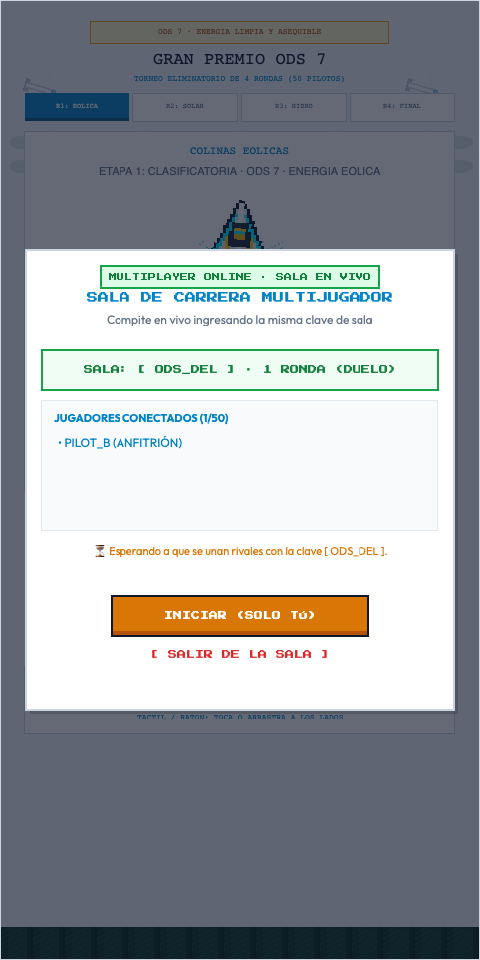
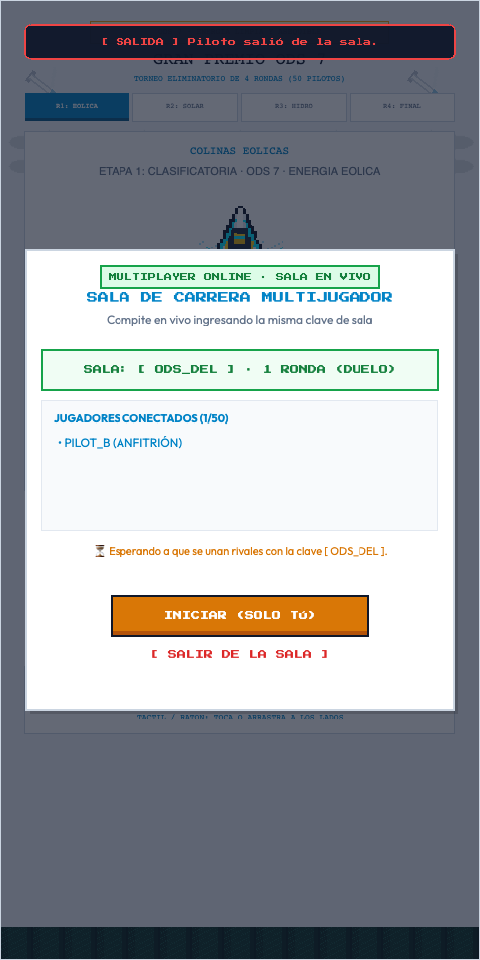
fix(gameplay): prevent background tab invulnerability exploit with speed penalty and finish guard

Changed region(s): [[0.0312, 0.0, 0.9688, 0.0625], [0.4375, 0.2188, 0.5312, 0.2812]]

diff --git a/src/scenes/MainScene.ts b/src/scenes/MainScene.ts
@@ -616,6 +616,10 @@ export class MainScene extends Scene {
         if (typeof document === 'undefined') return;
         if (document.hidden) {
             this.lastHiddenTime = performance.now();
+            // Drop speed to penalty crawl immediately so hidden tabs cannot exploit invulnerability
+            if (this.glider) {
+                this.glider.speed = 20;
+            }
             this.startBackgroundSimulation();
         } else {
             this.stopBackgroundSimulation();
@@ -671,9 +675,14 @@ export class MainScene extends Scene {
 
         if (deltaSec <= 0 || deltaSec > 2) return;
 
-        const currentSpeed = this.glider ? this.glider.speed : 45;
-        const meters = (currentSpeed / 3.6) * deltaSec * 1.8;
-        this.distanceTraveled += meters;
+        // Inactivity penalty speed (20 km/h) prevents tab-switch invulnerability exploit
+        const penaltySpeed = 20;
+        if (this.glider) {
+            this.glider.speed = penaltySpeed;
+        }
+        const meters = (penaltySpeed / 3.6) * deltaSec * 1.8;
+        // Background simulation cannot cross the finish line (capped at targetDistance - 10)
+        this.distanceTraveled = Math.min(this.targetDistance - 10, this.distanceTraveled + meters);
 
         const curDist = Math.min(this.targetDistance, Math.round(this.distanceTraveled));
         const progressPct = (curDist / this.targetDistance) * 100;
@@ -683,16 +692,11 @@ export class MainScene extends Scene {
             progress: progressPct,
             distance: curDist
         });
-        EventBus.emit(GameEvents.SPEED_UPDATED, Math.round(currentSpeed));
+        EventBus.emit(GameEvents.SPEED_UPDATED, penaltySpeed);
 
         if (this.isMultiplayer) {
-            networkManager.sendPlayerUpdate(this.glider.x, this.distanceTraveled, currentSpeed);
+            networkManager.sendPlayerUpdate(this.glider ? this.glider.x : 240, this.distanceTraveled, penaltySpeed);
             this.updateLeaderboardUI();
-        }
-
-        if (this.distanceTraveled >= this.targetDistance) {
-            this.stopBackgroundSimulation();
-            this.finishRace();
         }
     }
 
@@ -704,9 +708,14 @@ export class MainScene extends Scene {
         this.lastHiddenTime = now;
 
         if (deltaSec > 0.05 && deltaSec < 120) {
-            const currentSpeed = this.glider ? this.glider.speed : 45;
-            const meters = (currentSpeed / 3.6) * deltaSec * 1.8;
-            this.distanceTraveled += meters;
+            // Inactivity penalty speed (20 km/h) applies to offline catch-up
+            const penaltySpeed = 20;
+            if (this.glider) {
+                this.glider.speed = penaltySpeed;
+            }
+            const meters = (penaltySpeed / 3.6) * deltaSec * 1.8;
+            // Never finish from background catch-up
+            this.distanceTraveled = Math.min(this.targetDistance - 10, this.distanceTraveled + meters);
 
             const curDist = Math.min(this.targetDistance, Math.round(this.distanceTraveled));
             const progressPct = (curDist / this.targetDistance) * 100;
@@ -716,15 +725,11 @@ export class MainScene extends Scene {
                 progress: progressPct,
                 distance: curDist
             });
-            EventBus.emit(GameEvents.SPEED_UPDATED, Math.round(currentSpeed));
+            EventBus.emit(GameEvents.SPEED_UPDATED, penaltySpeed);
 
             if (this.isMultiplayer) {
-                networkManager.sendPlayerUpdate(this.glider.x, this.distanceTraveled, currentSpeed);
+                networkManager.sendPlayerUpdate(this.glider ? this.glider.x : 240, this.distanceTraveled, penaltySpeed);
                 this.updateLeaderboardUI();
-            }
-
-            if (this.distanceTraveled >= this.targetDistance) {
-                this.finishRace();
             }
         }
     }

diff --git a/e2e/multiplayer.spec.ts b/e2e/multiplayer.spec.ts
@@ -519,4 +519,44 @@ test.describe('ODS 7 Multiplayer Room Suite (WebSocket on Port 5175/5199)', () =
         await ctx2.close();
         await ctx3.close();
     });
+
+    test('penalizes background tab switching by reducing speed to 20 km/h and blocking background finish', async ({ page }) => {
+        await page.goto('/?room=ODS_TAB&name=TABBER');
+        await page.waitForSelector('#phaser-container canvas', { timeout: 10000 });
+        await page.waitForTimeout(1000);
+
+        await page.evaluate(() => {
+            (window as any).networkManager?.startRace(1);
+        });
+
+        await page.waitForFunction(() => (window as any).__phaserGame?.scene?.isActive('MainScene'), { timeout: 10000 });
+        await page.waitForTimeout(4000); // race becomes active after 3.5s countdown
+
+        // Simulate tab switch (document.hidden = true)
+        await page.evaluate(() => {
+            Object.defineProperty(document, 'hidden', { value: true, configurable: true });
+            document.dispatchEvent(new Event('visibilitychange'));
+        });
+
+        // Verify speed was reduced to penalty crawl (20 km/h)
+        const speedHidden = await page.evaluate(() => {
+            const main = (window as any).__phaserGame?.scene?.getScene('MainScene') as any;
+            return main?.glider?.speed;
+        });
+        expect(Math.round(speedHidden)).toBe(20);
+
+        // Advance distance near meta while hidden
+        await page.evaluate(() => {
+            const main = (window as any).__phaserGame?.scene?.getScene('MainScene') as any;
+            main.distanceTraveled = main.targetDistance + 500;
+            main.simulateBackgroundTick();
+        });
+
+        // Verify distance was capped at targetDistance - 10 and cannot finish in background
+        const hasFinishedHidden = await page.evaluate(() => {
+            const main = (window as any).__phaserGame?.scene?.getScene('MainScene') as any;
+            return main?.hasFinished;
+        });
+        expect(hasFinishedHidden).toBe(false);
+    });
 });
